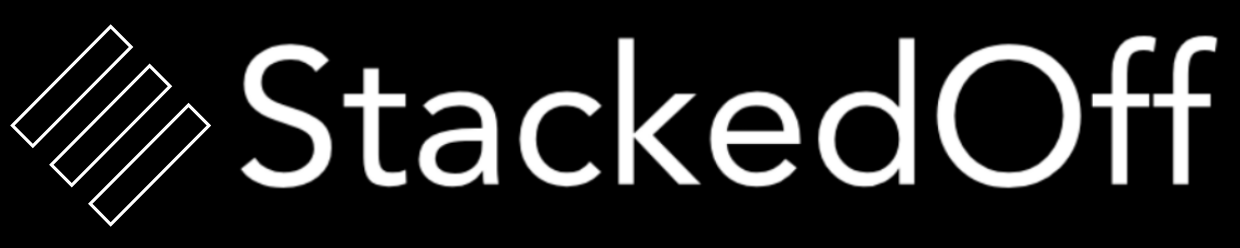
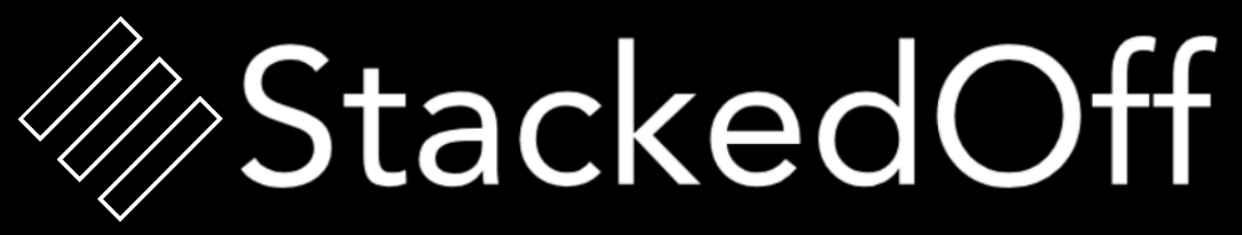
More fixes and cleanup

Changed region(s): [[0.0, 0.0596, 0.9806, 0.9532]]

diff --git a/src/main/kotlin/org/tools4j/stacked/web/Server.kt b/src/main/kotlin/org/tools4j/stacked/web/Server.kt
@@ -95,7 +95,8 @@ class Server {
                         call.respond(HttpStatusCode.InternalServerError, "Dir does not exist: $parentIndexDir")
                     } else if (!File(parentIndexDir).isDirectory()) {
                         call.respond(HttpStatusCode.InternalServerError, "Path is not a directory: $parentIndexDir")
-                    } else if (File(parentIndexDir).canonicalPath.equals(File(instance.diContext.getIndexParentDir()).canonicalPath)) {
+                    } else if (instance.diContext.getIndexParentDir() != null
+                        && File(parentIndexDir).canonicalPath.equals(File(instance.diContext.getIndexParentDir()).canonicalPath)) {
                         call.respond(
                             HttpStatusCode.NotAcceptable,
                             "New path is the same as the existing path: $parentIndexDir"

diff --git a/src/main/resources/webapp/app.css b/src/main/resources/webapp/app.css
@@ -38,6 +38,10 @@ h2.results-heading {
     margin-bottom: 0.3em
 }
 
+div.header {
+    border-top: 2px solid orange;
+}
+
 table.result td {
     vertical-align: top;
 }
@@ -119,10 +123,14 @@ div.header {
     margin-bottom: 0.8em;
 }
 
+div.header table {
+    box-shadow: 0px 5px 4px silver;
+}
+
 a.header-link {
     margin-right: 1em;
-    text-decoration-color: #f1d637;
-    color: #f1d637;
+    text-decoration-color: #fdbc3b;
+    color: #fdbc3b;
     text-decoration: none;
 }
 
@@ -132,6 +140,7 @@ div.result {
 
 img.logo {
     width: 15em;
+    padding: 0.5em 0.5em;
 }
 
 td.logo-td {
